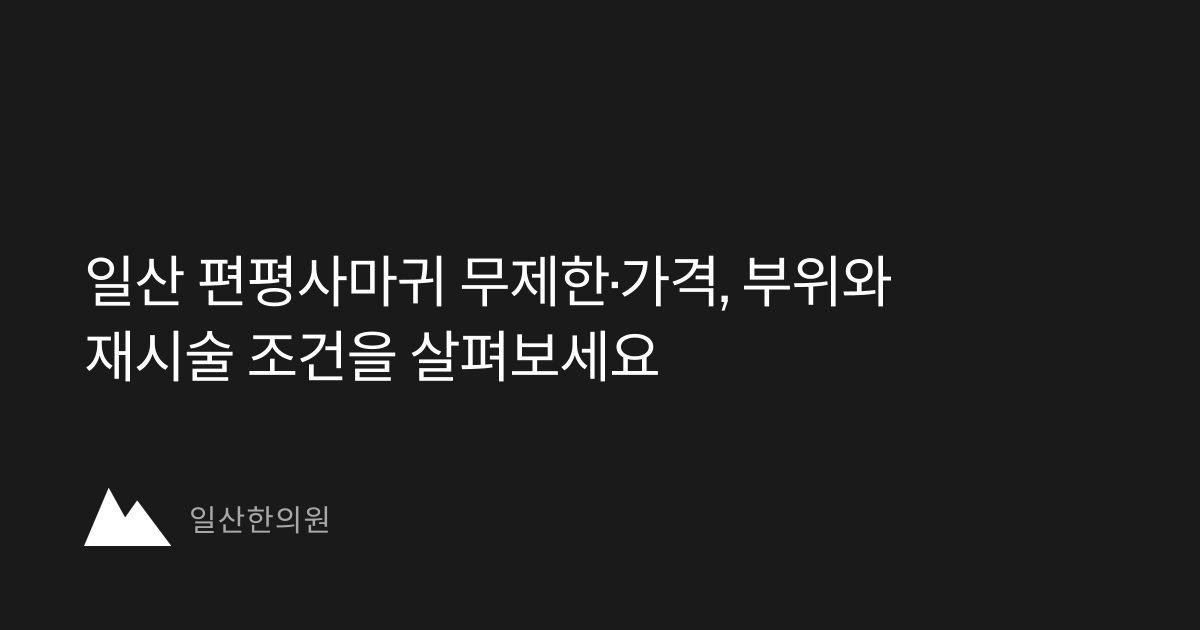
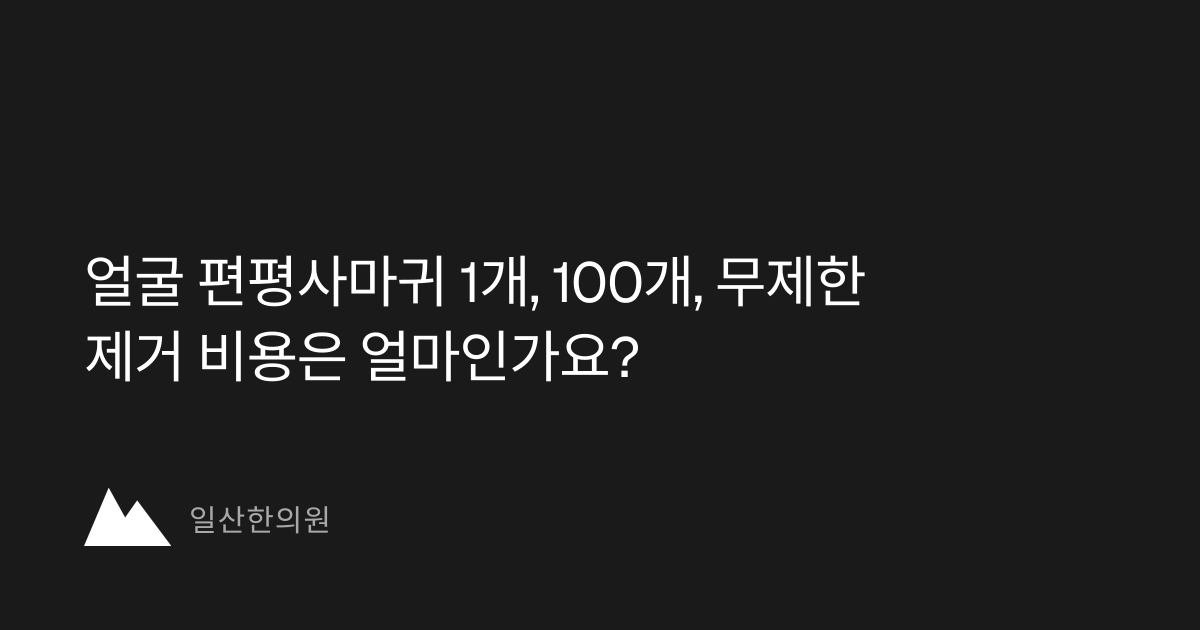
Show single and facial flat wart prices before body treatments

Changed region(s): [[0.0925, 0.5127, 0.555, 0.6032], [0.37, 0.3921, 0.74, 0.4825], [0.0617, 0.3921, 0.1542, 0.4825]]

diff --git a/src/components/SkinAreaPrices.tsx b/src/components/SkinAreaPrices.tsx
@@ -1,16 +1,56 @@
 import PriceTable from "@/components/ui/PriceTable";
 import Image from "next/image";
-import { FLAT_WART_PRICE_GROUPS, PIGMENTATION_AREA_PRICES, PIGMENTATION_PACKAGE_NOTE, PIGMENTATION_COUPON_NOTE, SPOT_RETOUCH_POLICY, painWon } from "@/lib/pricing";
+import { FLAT_WART_FACE_PRICES, FLAT_WART_PRICE_GROUPS, PIGMENTATION_AREA_PRICES, PIGMENTATION_PACKAGE_NOTE, PIGMENTATION_COUPON_NOTE, SPOT_PRICE_ROWS, SPOT_PRICE_HEADERS, SPOT_PRICE_NOTE, SPOT_RETOUCH_POLICY, painWon, won } from "@/lib/pricing";
 
-export function FlatWartPrices() {
+const areaGuide = "/images/skin/flat-wart-area-guide.webp";
+
+// Viewports in the original 2480 × 3508 illustration. Both views share one download.
+function AreaDiagram({ area }: { area: "face" | "body" }) {
+  const [x, y, width, height] = area === "face" ? [1140, 680, 365, 365] : [1033, 684, 1218, 1165];
+  return (
+    <div className="relative overflow-hidden rounded-xl" style={{ aspectRatio: `${width} / ${height}` }}>
+      <Image src={areaGuide} width={1600} height={2263} unoptimized
+        alt={area === "face" ? "이마에서 턱선까지 보라색으로 표시한 얼굴 시술 범위" : "앞면은 목·윗가슴·복부, 뒷면은 등·허리로 나눈 편평사마귀 시술 부위"}
+        className="absolute h-auto max-w-none"
+        style={{ width: `${2480 / width * 100}%`, left: `${-x / width * 100}%`, top: `${-y / height * 100}%` }} />
+    </div>
+  );
+}
+
+export function SpotRemovalPrices() {
+  const [torso, ...otherGroups] = FLAT_WART_PRICE_GROUPS;
   return <div className="space-y-6 tabular-nums [&_li>p]:text-lg" data-price-kind="flat-wart">
-    <p className="text-base leading-relaxed text-ink">얼굴부터 몸까지, 필요한 부위를 선택하세요.<br /><strong>선택한 부위 내 편평사마귀를 개수 제한 없이 제거합니다.</strong></p>
-    <div className="grid items-start gap-6 md:grid-cols-2">{FLAT_WART_PRICE_GROUPS.map(group => <PriceTable key={group.title} caption={group.title} rows={group.rows.map(row => ({ ...row, price: painWon(row.price) }))} />)}</div>
-    <p className="text-base leading-relaxed text-ink">얼굴＋상반신 전체는 얼굴·목·윗가슴·복부·등·허리를 포함하며, 팔은 제외됩니다.</p>
+    <section aria-label="편평사마귀 낱개·얼굴 가격" className="overflow-hidden rounded-2xl border border-line bg-card">
+      <div className="flex items-center gap-4 border-b border-line bg-surface px-5 py-4 sm:gap-6">
+        <div className="w-20 shrink-0 sm:w-28"><AreaDiagram area="face" /></div>
+        <div><h3 className="text-xl font-bold text-ink">편평사마귀 낱개·얼굴 제거</h3><p className="mt-1 text-base text-muted">첫 시술 기준 · 부가세 포함</p></div>
+      </div>
+      <dl className="divide-y divide-line px-5">
+        {FLAT_WART_FACE_PRICES.map(row => <div key={row.name} className="flex items-baseline justify-between gap-3 py-4">
+          <dt className="text-base font-medium text-ink">{row.name}</dt>
+          <dd className="whitespace-nowrap text-xl font-bold text-primary">{painWon(row.price)}</dd>
+        </div>)}
+      </dl>
+    </section>
+    <details className="rounded-xl border border-line bg-card px-5">
+      <summary className="cursor-pointer py-4 text-base font-semibold text-primary">점·쥐젖 얼굴·목 가격 보기</summary>
+      <div className="pb-5"><PriceTable caption="점·쥐젖 제거" headers={SPOT_PRICE_HEADERS}
+        rows={SPOT_PRICE_ROWS.map(row => ({name: row.name, price: won(row.upTo100), price2: won(row.unlimited)}))}
+        note={SPOT_PRICE_NOTE} /></div>
+    </details>
+    <div className="pt-3"><h3 className="text-xl font-bold text-ink">편평사마귀 목·몸통·팔·다리 가격</h3>
+      <p className="mt-2 text-base leading-relaxed text-muted">아래 금액은 선택한 부위의 편평사마귀를 한 번에 개수 제한 없이 제거하는 비용입니다.</p>
+    </div>
+    <div className="grid items-start gap-5 sm:grid-cols-2">
+      <figure className="mx-auto w-full max-w-sm"><AreaDiagram area="body" />
+        <figcaption><a href={areaGuide} target="_blank" rel="noopener noreferrer" className="inline-flex min-h-11 items-center text-base font-semibold text-primary underline underline-offset-4">팔·다리까지 부위별 무제한 가격표 크게 보기</a></figcaption>
+      </figure>
+      <PriceTable caption={torso.title} rows={torso.rows.map(row => ({ ...row, price: painWon(row.price) }))} />
+      {otherGroups.map(group => <PriceTable key={group.title} caption={group.title} rows={group.rows.map(row => ({ ...row, price: painWon(row.price) }))} />)}
+    </div>
     <PriceTable caption="편평사마귀 리터치" rows={[{ name: "개별 병변", price: `개당 ${painWon(SPOT_RETOUCH_POLICY.perLesion)}` }, { name: "개수 무제한", price: `1회 ${painWon(SPOT_RETOUCH_POLICY.unlimited)}` }]} />
     <p className="text-base leading-relaxed text-muted">최초 시술 후 6개월 이내, 기존에 시술받은 부위에 적용됩니다. 리터치 비용은 방문 시마다 적용되며, ‘개수 무제한’은 해당 회차의 제거 개수를 의미합니다.</p>
     <p className="text-base leading-relaxed text-muted">모든 금액은 부가세 포함입니다. 시술 전 진찰을 통해 병변 종류와 시술 범위를 확인한 후 진행합니다.</p>
-    <PricePoster kind="flat-wart" />
   </div>;
 }
 
@@ -19,16 +59,16 @@ export function PigmentationAreaPrices() {
     <p className="text-base font-semibold leading-relaxed text-ink">얼굴·목은 전체, 나머지 부위는 양쪽 기준입니다. 모든 금액은 부가세 포함입니다.</p>
     <PriceTable caption="색소·착색 제거 치료 · 부위별 1회 가격" rows={PIGMENTATION_AREA_PRICES.map(row => ({ ...row, price: painWon(row.price) }))} />
     <div className="rounded-xl border border-line bg-surface p-5 text-base leading-relaxed"><p className="font-semibold text-primary">{PIGMENTATION_PACKAGE_NOTE}</p><p className="mt-3 text-ink">{PIGMENTATION_COUPON_NOTE}</p></div>
-    <PricePoster kind="pigmentation" />
+    <PigmentationPoster />
   </div>;
 }
 
-function PricePoster({ kind }: { kind: "flat-wart" | "pigmentation" }) {
-  const wart = kind === "flat-wart";
+function PigmentationPoster() {
+  const src = "/images/skin/pigmentation-prices-20261121.png";
   return <details className="rounded-xl border border-line bg-white p-4">
     <summary className="cursor-pointer py-2 text-base font-semibold text-primary">부위별 가격표 그림 보기</summary>
-    <a href={`/images/skin/${kind}-prices-20261121.png`} target="_blank" rel="noopener noreferrer" className="mt-4 block" aria-label={`${wart ? "편평사마귀" : "색소·착색"} 가격표 원본 크게 보기`}>
-      <Image src={`/images/skin/${kind}-prices-20261121.png`} width={wart ? 992 : 1054} height={wart ? 1585 : 1492} alt={wart ? "편평사마귀 제거 부위와 가격, 리터치 안내 그림. 상세 가격은 위 본문에 표시되어 있습니다." : "색소·착색 치료 부위와 양쪽 기준 가격 안내 그림. 상세 가격은 위 본문에 표시되어 있습니다."} sizes="(max-width: 768px) 90vw, 700px" className="h-auto w-full" />
+    <a href={src} target="_blank" rel="noopener noreferrer" className="mt-4 block" aria-label="색소·착색 가격표 원본 크게 보기">
+      <Image src={src} width={1054} height={1492} alt="색소·착색 치료 부위와 양쪽 기준 가격 안내 그림. 상세 가격은 위 본문에 표시되어 있습니다." sizes="(max-width: 768px) 90vw, 700px" className="h-auto w-full" />
     </a>
     <p className="mt-2 text-sm text-muted">그림을 누르면 크게 볼 수 있습니다.</p>
   </details>;

diff --git a/src/app/skin/spot/page.tsx b/src/app/skin/spot/page.tsx
@@ -1,7 +1,7 @@
 import ClinicPatientQuestions from "@/components/ClinicPatientQuestions";
 import { clinicFaqItems } from "@/lib/clinic-patient-questions";
 import Image from "next/image";
-import { FlatWartPrices } from "@/components/SkinAreaPrices";
+import { SpotRemovalPrices } from "@/components/SkinAreaPrices";
 import { SkinTreatmentHeader } from "@/components/SkinTreatmentLayout";
 import PatientJourney from "@/components/PatientJourney";
 import PatientQuestions from "@/components/PatientQuestions";
@@ -18,7 +18,6 @@ import TwoTone from "@/components/ui/TwoTone";
 import IconTile from "@/components/ui/IconTile";
 import DefinitionCard from "@/components/ui/DefinitionCard";
 import NumberedStep from "@/components/ui/NumberedStep";
-import PriceTable from "@/components/ui/PriceTable";
 import {
   AlertTriangle,
   CircleDot,
@@ -36,24 +35,19 @@ import { buildGraph, faqEntities } from "@/lib/schema";
 import LocalBlock from "@/components/LocalBlock";
 import { LOCAL_BLOCKS, localFaqEntities } from "@/lib/local-blocks";
 import { postPath } from "@/lib/slug";
-import {
-  SPOT_PRICE_ROWS,
-  SPOT_PRICE_HEADERS,
-  SPOT_PRICE_NOTE,
-  won,
-} from "@/lib/pricing";
+import { FLAT_WART_FACE_SUMMARY } from "@/lib/pricing";
 
 export const metadata: Metadata = pageMetadata({
   path: "/skin/spot",
   title: "일산 점제거·점빼기 | 편평사마귀 제거·가격",
   description:
-    "고양시 일산한의원 잡티 제거. 점, 편평사마귀, 쥐젖을 CO2 레이저로 제거합니다. 부위별 비용 전체 공개. 이마트 풍산점 3층, 평일 20시까지.",
+    `${FLAT_WART_FACE_SUMMARY} 목·몸통·팔다리 가격과 리터치 조건을 확인하세요.`,
   routeOgImage: true,
 });
 
 const QUESTIONS = [
   { quote: "점인지 편평사마귀인지 모르겠어요", answer: "병변 이름을 알고 오실 필요는 없습니다. 의료진이 확대경으로 모양과 분포를 살펴 제거할 부위를 정합니다. 색이나 모양이 변하는 등 추가 검사가 필요한 병변은 검사받을 의료기관으로 의뢰합니다." },
-  { quote: "개수가 많으면 비용은 어떻게 정하나요?", answer: "편평사마귀는 얼굴·목·몸통·팔·다리에서 선택한 부위 내 개수 제한 없이 제거합니다. 얼굴 전체와 목 전체는 각각 165,000원, 얼굴＋목 전체는 275,000원입니다. 점·쥐젖은 별도 가격표로 안내하며, 진찰 후 병변 종류와 시술 범위를 확인합니다." },
+  { quote: "얼굴에 편평사마귀가 100개 정도면 얼마인가요?", answer: `${FLAT_WART_FACE_SUMMARY} 목까지 함께 제거할 때에는 얼굴·목 패키지 가격을 따로 안내합니다.` },
   { quote: "흉터가 걱정되는데 어떻게 시술하나요?", answer: SPOT_RETOUCH.reason + " 병변의 깊이와 피부 상태에 따라 흉터나 색소 변화가 생길 수 있어, 한 번에 깊게 제거하기보다 회복을 살피며 치료합니다." },
   { quote: "남거나 다시 올라온 병변은 언제 리터치하나요?", answer: SPOT_RETOUCH.timing + " " + SPOT_RETOUCH.cost },
   { quote: "시술이 많이 아픈가요?", answer: "시술 전 마취 연고를 충분히 바른 뒤 진행합니다. 통증에 민감하거나 이전 시술이 힘드셨다면 미리 말씀해 주세요. 시술 중에도 불편한 정도를 의료진에게 알려주시면 상태를 살피며 진행합니다." },
@@ -131,7 +125,7 @@ export default function SkinSpotPage() {
       <SkinTreatmentHeader
         kind="spot"
         title={<>점·편평사마귀·쥐젖 제거<br /><span className="text-primary">진찰부터 회복 관리까지</span></>}
-        description="먼저 병변을 살피고, 제거할 범위와 비용을 설명합니다. 시술 후 관리와 남은 병변의 리터치까지 미리 확인하세요."
+        description={FLAT_WART_FACE_SUMMARY}
       />
       <SectionJumpNav label="잡티 제거 안내 목차" items={[["prices", "시술 비용"], ["skin-visit", "진찰·시술 과정"], ["retouch", "리터치 안내"], ["skin-faq", "자주 묻는 질문"], ["skin-aftercare", "회복 관리"], ["spot-questions", "질문별 글"]]} />
 
@@ -144,19 +138,7 @@ export default function SkinSpotPage() {
             </div>
 
             <div className="mx-auto mt-6 max-w-4xl space-y-8">
-              <h3 className="text-2xl font-bold">편평사마귀 부위별 가격</h3>
-              <FlatWartPrices />
-              <h3 className="pt-6 text-xl font-bold">점·쥐젖 제거</h3>
-              <PriceTable
-                caption="점·쥐젖 제거"
-                headers={SPOT_PRICE_HEADERS}
-                rows={SPOT_PRICE_ROWS.map((r) => ({
-                  name: r.name,
-                  price: won(r.upTo100),
-                  price2: won(r.unlimited),
-                }))}
-                note={SPOT_PRICE_NOTE}
-              />
+              <SpotRemovalPrices />
             </div>
           </SectionReveal>
         </div>

diff --git a/src/lib/pricing.ts b/src/lib/pricing.ts
@@ -78,13 +78,22 @@ export function wonDigits(amount: number): string {
   return label;
 }
 
-/** 진입 가격 = 가장 싼 행의 100개까지 금액 */
+/** 얼굴 전체 시술 가격 */
 export const SPOT_ENTRY: SpotPriceRow = SPOT_PRICE_ROWS[0];
 
-/** 2026-11-21 원장 제공 가격표. 편평사마귀는 선택 부위 내 개수 무제한. */
+export const FLAT_WART_FACE_PRICES = [
+  { name: "낱개 1개", price: 9900 },
+  { name: "얼굴 100개 이하", price: SPOT_ENTRY.upTo100 },
+  { name: "얼굴 전체 무제한", price: SPOT_ENTRY.unlimited },
+] as const;
+
+export const FLAT_WART_FACE_SUMMARY =
+  `편평사마귀 낱개 제거는 1개 ${painWon(FLAT_WART_FACE_PRICES[0].price)}입니다. 얼굴은 100개까지 ${painWon(SPOT_ENTRY.upTo100)}, 개수 무제한은 ${painWon(SPOT_ENTRY.unlimited)}입니다.`;
+
+/** 편평사마귀 부위별 무제한 가격 (한 번의 시술 기준). */
 export const FLAT_WART_PRICE_GROUPS = [
-  { title: "얼굴·목·몸통", rows: [
-    { name: "얼굴 전체", price: 165000 }, { name: "목 전체", includes: "앞·뒤 포함", price: 165000 },
+  { title: "목·몸통", rows: [
+    { name: "목 전체", includes: "앞·뒤 포함", price: 165000 },
     { name: "윗가슴", includes: "쇄골 아래~가슴 위", price: 165000 }, { name: "복부", price: 440000 },
     { name: "등", price: 275000 }, { name: "허리", price: 275000 },
   ] },
@@ -178,6 +187,7 @@ export function allowedSkinAmounts(): number[] {
     set.add(perSpot(r));
   }
   for (const p of AFTERCARE_PRODUCTS) set.add(p.price);
+  for (const row of FLAT_WART_FACE_PRICES) set.add(row.price);
   for (const group of FLAT_WART_PRICE_GROUPS) for (const row of group.rows) set.add(row.price);
   for (const row of PIGMENTATION_AREA_PRICES) { set.add(row.price); set.add(row.price * 5 * 0.9); }
   for (const amount of [44000, TONING_PRICES.genesis, TONING_PRICES.pico, PIGMENTATION_PRICES.single, SHURINK_PRICES.single, SHURINK_PRICES.shots600, VOLNEWMER_PRICES.single, VOLNEWMER_PRICES.shots600, LIFTING_PACKAGE.shots300, LIFTING_PACKAGE.shots600]) set.add(amount);

diff --git a/src/app/pricing/page.tsx b/src/app/pricing/page.tsx
@@ -1,5 +1,5 @@
 import type { ReactNode } from "react";
-import { FlatWartPrices, PigmentationAreaPrices } from "@/components/SkinAreaPrices";
+import { SpotRemovalPrices, PigmentationAreaPrices } from "@/components/SkinAreaPrices";
 import Link from "next/link";
 import SectionJumpNav from "@/components/SectionJumpNav";
 import PageHeader from "@/components/ui/PageHeader";
@@ -16,7 +16,7 @@ import { LiftingPrices, HairRemovalPrices } from "@/components/SkinPrices";
 import {
   PAIN_PRICES, PAIN_INSURANCE_NOTE, PHARMACOPUNCTURE_NOTE,
   HERBAL_PRICES, HERBAL_INSURANCE_CONDITIONS, HERBAL_INSURANCE_LIMIT,
-  DIET_PRICES, SPOT_PRICE_ROWS, SPOT_PRICE_HEADERS, AFTERCARE_PRODUCTS,
+  DIET_PRICES, AFTERCARE_PRODUCTS,
   PIGMENTATION_PRICES, TONING_PRICES, painWon, won,
 } from "@/lib/pricing";
 
@@ -94,9 +94,7 @@ export default function PricingPage() {
           <Link href="#pigmentation" className="inline-flex min-h-11 items-center rounded-xl border border-line bg-white px-4 font-medium text-primary">색소·홍조·재생치료</Link>
           <Link href="#toning" className="inline-flex min-h-11 items-center rounded-xl border border-line bg-white px-4 font-medium text-primary">토닝관리</Link>
         </nav>
-        <h3 className="text-xl font-bold text-ink">편평사마귀 제거 · 부위별 개수 무제한</h3>
-        <FlatWartPrices />
-        <PriceTable caption="CO₂ 레이저 점·쥐젖 제거 · 비급여" headers={SPOT_PRICE_HEADERS} rows={SPOT_PRICE_ROWS.map(row => ({ name: row.name, price: won(row.upTo100), price2: won(row.unlimited) }))} />
+        <SpotRemovalPrices />
         <p>점·편평사마귀·쥐젖을 살펴보고 치료 범위를 정합니다. 시술 시간은 부위와 개수에 따라 방문 전 안내해드립니다.</p>
         <p>재생크림은 별도 구매입니다. {AFTERCARE_PRODUCTS.map(p => `${p.name} ${p.volume} ${won(p.price)}`).join(" · ")}.</p>
         <DetailLink href="/skin/spot">잡티제거 과정과 관리</DetailLink>

diff --git a/src/lib/patient-journeys.ts b/src/lib/patient-journeys.ts
@@ -26,7 +26,7 @@ export const SPOT_RETOUCH = {
 
 export const SKIN_JOURNEY: JourneyStep[] = [
   { title: "어떤 병변인지 먼저 진찰합니다", text: "점·편평사마귀·쥐젖은 겉모습이 비슷해도 치료 계획이 다릅니다. 확대경으로 모양과 분포를 살피고 제거할 부위를 정합니다. 추가 검사가 필요한 병변은 검사받을 의료기관으로 의뢰합니다." },
-  { title: "시술 범위와 비용을 확인합니다", text: "편평사마귀는 선택한 부위 내 개수 무제한 가격으로, 점·쥐젖은 별도 가격표로 안내합니다. 얼굴·목·몸통·팔다리 중 시술할 범위와 비용을 확인합니다. 회복 과정과 리터치 조건도 시술 전에 함께 안내합니다.", href: "#prices", linkLabel: "부위별 시술 비용" },
+  { title: "시술 범위와 비용을 확인합니다", text: "얼굴 편평사마귀는 낱개와 100개 이하, 얼굴 전체 무제한 중 제거할 개수에 맞춰 안내합니다. 목이나 몸까지 원하시면 거울로 시술 범위를 함께 짚고 부위별 비용을 설명드립니다.", href: "#prices", linkLabel: "부위별 시술 비용" },
   { title: "마취 후 피부 상태에 맞춰 제거합니다", text: "마취 연고를 충분히 바른 뒤 CO₂ 레이저로 시술합니다. 병변의 깊이와 피부 상태를 보며 제거하고, 귀가 전 보호재·연고 사용과 세안 방법을 안내합니다.", href: "/aftercare", linkLabel: "시술 후 관리 안내" },
   { title: "회복을 살피고 남은 병변을 확인합니다", text: "깊은 점이 남거나 편평사마귀가 다시 올라오면 시술 4주 이후 피부가 아문 상태를 확인해 리터치를 진행합니다. 회복 중 궁금한 변화가 있으면 진료시간 내 카카오톡으로 문의해 주세요.", href: "#retouch", linkLabel: "리터치 기간과 비용" },
 ];

diff --git a/src/app/llms.txt/route.ts b/src/app/llms.txt/route.ts
@@ -14,7 +14,7 @@ import {
 import { getAllPosts } from "@/lib/blog-local";
 import { DISEASE_GUIDES } from "@/lib/disease-guides";
 import { PIGMENTATION_SLUGS, LIFTING_SLUGS, LIFTING_PATH, SHURINK_CARE, HAIR_REMOVAL_SLUGS } from "@/lib/skin-guides";
-import { FLAT_WART_PRICE_GROUPS, PIGMENTATION_AREA_PRICES, PIGMENTATION_COUPON_NOTE, PIGMENTATION_PRICES, TONING_PRICES, SHURINK_PRICES, VOLNEWMER_PRICES, LIFTING_PACKAGE, HAIR_REMOVAL_PRICES, skinPrice, PAIN_PRICES, HERBAL_PRICES, PAIN_INSURANCE_NOTE, PHARMACOPUNCTURE_NOTE, HERBAL_INSURANCE_CONDITIONS, HERBAL_INSURANCE_LIMIT, won, painWon } from "@/lib/pricing";
+import { FLAT_WART_FACE_SUMMARY, FLAT_WART_PRICE_GROUPS, PIGMENTATION_AREA_PRICES, PIGMENTATION_COUPON_NOTE, PIGMENTATION_PRICES, TONING_PRICES, SHURINK_PRICES, VOLNEWMER_PRICES, LIFTING_PACKAGE, HAIR_REMOVAL_PRICES, skinPrice, PAIN_PRICES, HERBAL_PRICES, PAIN_INSURANCE_NOTE, PHARMACOPUNCTURE_NOTE, HERBAL_INSURANCE_CONDITIONS, HERBAL_INSURANCE_LIMIT, won, painWon } from "@/lib/pricing";
 import { postPath } from "@/lib/slug";
 import { FOCUS_ORDER, FOCUS_GUIDES, focusPosts } from "@/lib/focus-guides";
 
@@ -188,7 +188,8 @@ ${searchGuideLinks}
 
 ## 편평사마귀 부위별 제거 가격
 
-선택한 부위 내 편평사마귀를 개수 제한 없이 제거합니다. 모든 금액은 부가세 포함입니다.
+${FLAT_WART_FACE_SUMMARY}
+아래는 부위별 개수 무제한 가격입니다. 모든 금액은 부가세 포함입니다.
 ${FLAT_WART_PRICE_GROUPS.map(g => `- ${g.title}: ${g.rows.map(r => `${r.name} ${painWon(r.price)}`).join(" / ")}`).join("\n")}
 - 얼굴＋상반신 전체: 얼굴·목·윗가슴·복부·등·허리 포함, 팔 제외.
 - 리터치: 최초 시술 후 6개월 이내 기존 시술 부위, 개당 4,900원 또는 개수 무제한 1회 55,000원. 방문 시마다 적용.

diff --git a/src/app/skin/pigmentation/page.tsx b/src/app/skin/pigmentation/page.tsx
@@ -28,6 +28,7 @@ export default function PigmentationPage() {
       </SkinSection>
       <SkinSection id="prices" title="색소·착색 제거 치료 비용">
         <PigmentationAreaPrices />
+        <Link href="/skin/spot#prices" className="inline-flex min-h-11 items-center font-semibold text-primary underline underline-offset-4">편평사마귀·점·쥐젖 제거 가격 보기 →</Link>
         <p>{PIGMENTATION_PRICES.selection}</p>
         <Link href="/skin/toning" className="block rounded-xl border border-line bg-white p-5 font-semibold text-primary">얼굴 전반의 피부결·피부톤 관리가 필요하다면?<br />제네시스·피코토닝 각 1회 33,000원 →</Link>
       </SkinSection>

diff --git a/src/lib/skin-guides.ts b/src/lib/skin-guides.ts
@@ -59,7 +59,7 @@ export const SPOT_QUESTION_GROUPS = [
   ] },
   { name: "비용과 시술 범위", questions: [
     { slug: "잡티제거-개수와-비용", label: "얼굴·목 제거 비용과 리터치는 얼마인가요?" },
-    { slug: "일산-편평사마귀-가격", label: "편평사마귀 무제한 가격의 범위는요?" },
+    { slug: "일산-편평사마귀-가격", label: "얼굴 편평사마귀가 100개면 얼마인가요?" },
     { slug: "일산-편평사마귀-성지-가격비교", label: "가격 비교 때 함께 확인할 항목은요?" },
     { slug: "일산-쥐젖-제거-무제한", label: "쥐젖 제거 부위와 비용은 어떻게 정하나요?" },
   ] },

diff --git a/src/data/public-assets.ts b/src/data/public-assets.ts
@@ -2568,6 +2568,10 @@ export const publicAssets: Record<string, {width:number;height:number}|null> = {
     "width": 1200,
     "height": 800
   },
+  "/images/skin/flat-wart-area-guide.webp": {
+    "width": 1600,
+    "height": 2263
+  },
   "/images/skin/flat-wart-prices-20261121.png": {
     "width": 992,
     "height": 1585

diff --git a/content/skin/spot-guide-flat-wart-comparison.md b/content/skin/spot-guide-flat-wart-comparison.md
@@ -8,18 +8,18 @@ tags:
   - 일산 편사성지 가격비교
   - 잡티제거
 published: true
-updated: '2026-11-21'
+updated: '2026-11-26'
 ---
 **편평사마귀 치료를 비교할 때에는 진단·시술 범위·총비용·회복 관리를 함께 보세요.** ‘성지’를 찾는 분들이 기대하는 것도 충분한 설명과 납득할 수 있는 진료일 것입니다. 상담 전에 아래 항목을 정리해 두면 내 피부와 일정에 맞는 선택을 하는 데 도움이 됩니다.
 
 ## 일산 편사성지 가격비교, 같은 조건을 놓고 보세요
 
-편사를 편평사마귀의 줄임말로 쓰는 검색 결과가 있지만, 모든 돌기가 편평사마귀인 것은 아닙니다. 먼저 진료에서 병변 종류를 확인한 뒤, 같은 시술 부위와 포함 항목을 기준으로 비용을 비교하세요. 일산한의원은 선택 부위 내 편평사마귀를 개수 제한 없이 제거합니다.
+얼굴에 몇 개만 제거할 때와 얼굴 전체를 시술할 때는 비용이 다릅니다. 편평사마귀 낱개 제거는 1개 9,900원입니다. 얼굴 100개 이하는 110,000원, 얼굴 전체 무제한은 165,000원입니다. 다른 곳의 가격과 비교할 때도 같은 부위와 개수를 기준으로 보세요.
 
 | 비교할 항목 | 상담에서 확인할 질문 |
 |---|---|
 | 시술 부위 | 얼굴만인가요? 목 앞·뒤와 눈 주변도 포함되나요? |
-| 개수 기준 | 선택한 부위 안의 편평사마귀를 개수 제한 없이 제거하나요? |
+| 개수 기준 | 낱개로 할 때와 얼굴 100개까지 제거할 때 각각 얼마인가요? |
 | 당일 비용 | 상담에서 안내한 금액 외에 마취·보호재 등 별도 항목이 있나요? |
 | 이후 관리 | 집에서 사용할 제품과 재방문 비용은 어떻게 되나요? |
 | 재시술 | 남은 병변과 새로 생긴 병변의 처리 기준은 무엇인가요? |
@@ -38,7 +38,7 @@ updated: '2026-11-21'
 
 ## 일산한의원 안내를 비교표에 넣는다면
 
-일산한의원은 [공개 가격표](/skin/일산-편평사마귀-가격)에 얼굴·목·몸통·팔·다리의 부위별 가격과 패키지를 안내합니다. 선택한 부위 내 편평사마귀는 개수 제한 없이 제거합니다. 진료에서는 병변을 확인한 뒤 시술 범위를 정하고 회복 방법을 설명합니다. 비교할 기관에도 같은 범위와 추가 관리 항목을 물어보면 총비용을 나란히 살펴볼 수 있습니다.
+일산한의원은 [공개 가격표](/skin/일산-편평사마귀-가격)에 얼굴·목·몸통·팔·다리의 부위별 가격과 패키지를 안내합니다. 진료에서는 병변을 확인한 뒤 시술 범위를 정하고 회복 방법을 설명합니다. 비교할 기관에도 같은 범위와 추가 관리 항목을 물어보면 총비용을 나란히 살펴볼 수 있습니다.
 
 ## 자주 묻는 질문
 

diff --git a/content/skin/spot-guide-flat-wart-price.md b/content/skin/spot-guide-flat-wart-price.md
@@ -1,23 +1,34 @@
 ---
-title: '일산 편평사마귀 무제한·가격, 부위와 재시술 조건을 살펴보세요'
+title: '얼굴 편평사마귀 1개, 100개, 무제한 제거 비용은 얼마인가요?'
 slug: 일산-편평사마귀-가격
-description: '편평사마귀는 선택 부위 내 개수 무제한. 얼굴·목 각각 165,000원, 얼굴＋목 275,000원. 몸통·팔다리·패키지 가격과 6개월 이내 리터치를 안내합니다.'
+description: '편평사마귀 낱개 제거는 1개 9,900원입니다. 얼굴 100개 이하는 110,000원, 얼굴 전체 무제한은 165,000원입니다. 목·몸통·팔다리 가격과 리터치 비용을 함께 안내합니다.'
 date: '2026-10-27'
 tags:
   - 일산 편평사마귀 가격
   - 편평사마귀 비용
   - 잡티제거
 published: true
-updated: '2026-11-21'
+updated: '2026-11-26'
 ---
 
-**선택한 부위 내 편평사마귀를 개수 제한 없이 제거합니다.** 얼굴부터 몸까지, 필요한 부위를 선택하세요. 시술 전 진찰로 병변 종류와 시술 범위를 확인합니다. 모든 금액은 부가세 포함입니다.
+**편평사마귀 낱개 제거는 1개 9,900원입니다. 얼굴 100개 이하는 110,000원, 얼굴 전체 무제한은 165,000원입니다.** 모든 금액은 부가세 포함입니다.
 
-## 얼굴·목·몸통
+## 낱개와 얼굴 제거
+
+| 시술 범위 | 첫 시술 비용 |
+|---|---|
+| 낱개 1개 | 9,900원 |
+| 얼굴 100개 이하 | 110,000원 |
+| 얼굴 전체 무제한 | 165,000원 |
+
+얼굴 가격은 턱선까지입니다. 목까지 시술할 때는 아래 표에서 목 전체 또는 얼굴＋목 패키지를 확인하세요. [그림으로 시술 부위 보기](/skin/spot#prices)
+
+## 목·몸통 무제한 가격
+
+아래 목·몸통, 패키지, 팔·다리 금액은 선택한 부위에서 개수 제한 없이 한 번 제거하는 비용입니다.
 
 | 시술 부위 | 가격 |
 |---|---|
-| 얼굴 전체 | 165,000원 |
 | 목 전체 — 앞·뒤 포함 | 165,000원 |
 | 윗가슴 — 쇄골 아래~가슴 위 | 165,000원 |
 | 복부 | 440,000원 |
@@ -70,9 +81,9 @@ updated: '2026-11-21'
 
 얼굴＋목 전체 패키지는 **275,000원**입니다. 목 앞과 뒤를 모두 포함합니다.
 
-**Q. 개수가 많아도 같은 가격인가요?**
+**Q. 얼굴에 정확히 100개면 얼마인가요?**
 
-선택한 부위 안의 편평사마귀는 개수 제한 없이 제거합니다. 진찰 때 병변 종류와 시술 부위를 확인합니다.
+100개까지는 110,000원입니다. 100개를 넘어 얼굴 전체를 제거하면 개수 무제한 165,000원입니다.
 
 **Q. 얼굴＋상반신 전체에 팔도 들어가나요?**
 

diff --git a/content/skin/skin-02-개수와-비용.md b/content/skin/skin-02-개수와-비용.md
@@ -1,15 +1,15 @@
 ---
 title: '얼굴 전체 점·편평사마귀 제거 비용, 어디까지 포함되나요?'
 slug: 잡티제거-개수와-비용
-description: '편평사마귀는 선택 부위 내 개수 무제한으로 얼굴·목 각각 165,000원, 얼굴＋목 275,000원입니다. 점·쥐젖의 별도 가격과 6개월 이내 리터치 조건도 안내합니다.'
+description: '편평사마귀 낱개 제거는 1개 9,900원입니다. 얼굴 100개 이하는 110,000원, 얼굴 전체 무제한은 165,000원입니다. 점·쥐젖의 얼굴·목 비용과 리터치 조건을 함께 안내합니다.'
 date: '2026-08-20'
-updated: '2026-11-21'
+updated: '2026-11-26'
 tags: [잡티제거, 점제거비용, 편평사마귀, 리터치]
 published: true
 ---
-**얼굴 전체 점·쥐젖 제거는 100개까지 11만원, 개수 제한 없음은 16만5천원입니다.** 목까지 제거하려면 아래 표에서 목 앞면과 앞뒤 가격을 구분해 보시면 됩니다. 당일 관리와 이후 리터치 비용도 아래에 적었습니다.
+**편평사마귀 낱개 제거는 1개 9,900원입니다. 얼굴 100개 이하는 110,000원, 얼굴 전체 무제한은 165,000원입니다.**
 
-편평사마귀는 선택 부위 내 개수 무제한으로, 얼굴 전체와 목 전체 각각 **165,000원**, 얼굴＋목 전체 **275,000원**입니다. [편평사마귀 몸통·팔다리 가격표](/skin/일산-편평사마귀-가격)도 확인하세요.
+편평사마귀를 목까지 제거할 때는 목 앞·뒤 전체가 165,000원, 얼굴＋목 전체가 275,000원입니다. [몸통·팔다리 가격표](/skin/일산-편평사마귀-가격)도 확인하세요.
 
 ## 점·쥐젖 얼굴·목 부위별 가격
 
@@ -48,7 +48,7 @@ published: true
 
 **Q. 제거할 병변을 미리 세어 가야 하나요?**
 
-편평사마귀는 선택한 부위 내 개수 무제한으로 진행합니다. 점·쥐젖도 직접 모두 세어 오실 필요는 없습니다. 진료에서 제거할 병변과 부위를 확인하고 적용 구간을 안내합니다.
+진료 때 얼굴과 목의 병변을 구분하고 함께 개수를 살핍니다. 얼굴 100개 이하와 무제한 중 어느 가격이 적용되는지 시술 전에 안내합니다.
 
 **Q. 얼굴 전체 무제한이면 재시술도 포함되나요?**
 
